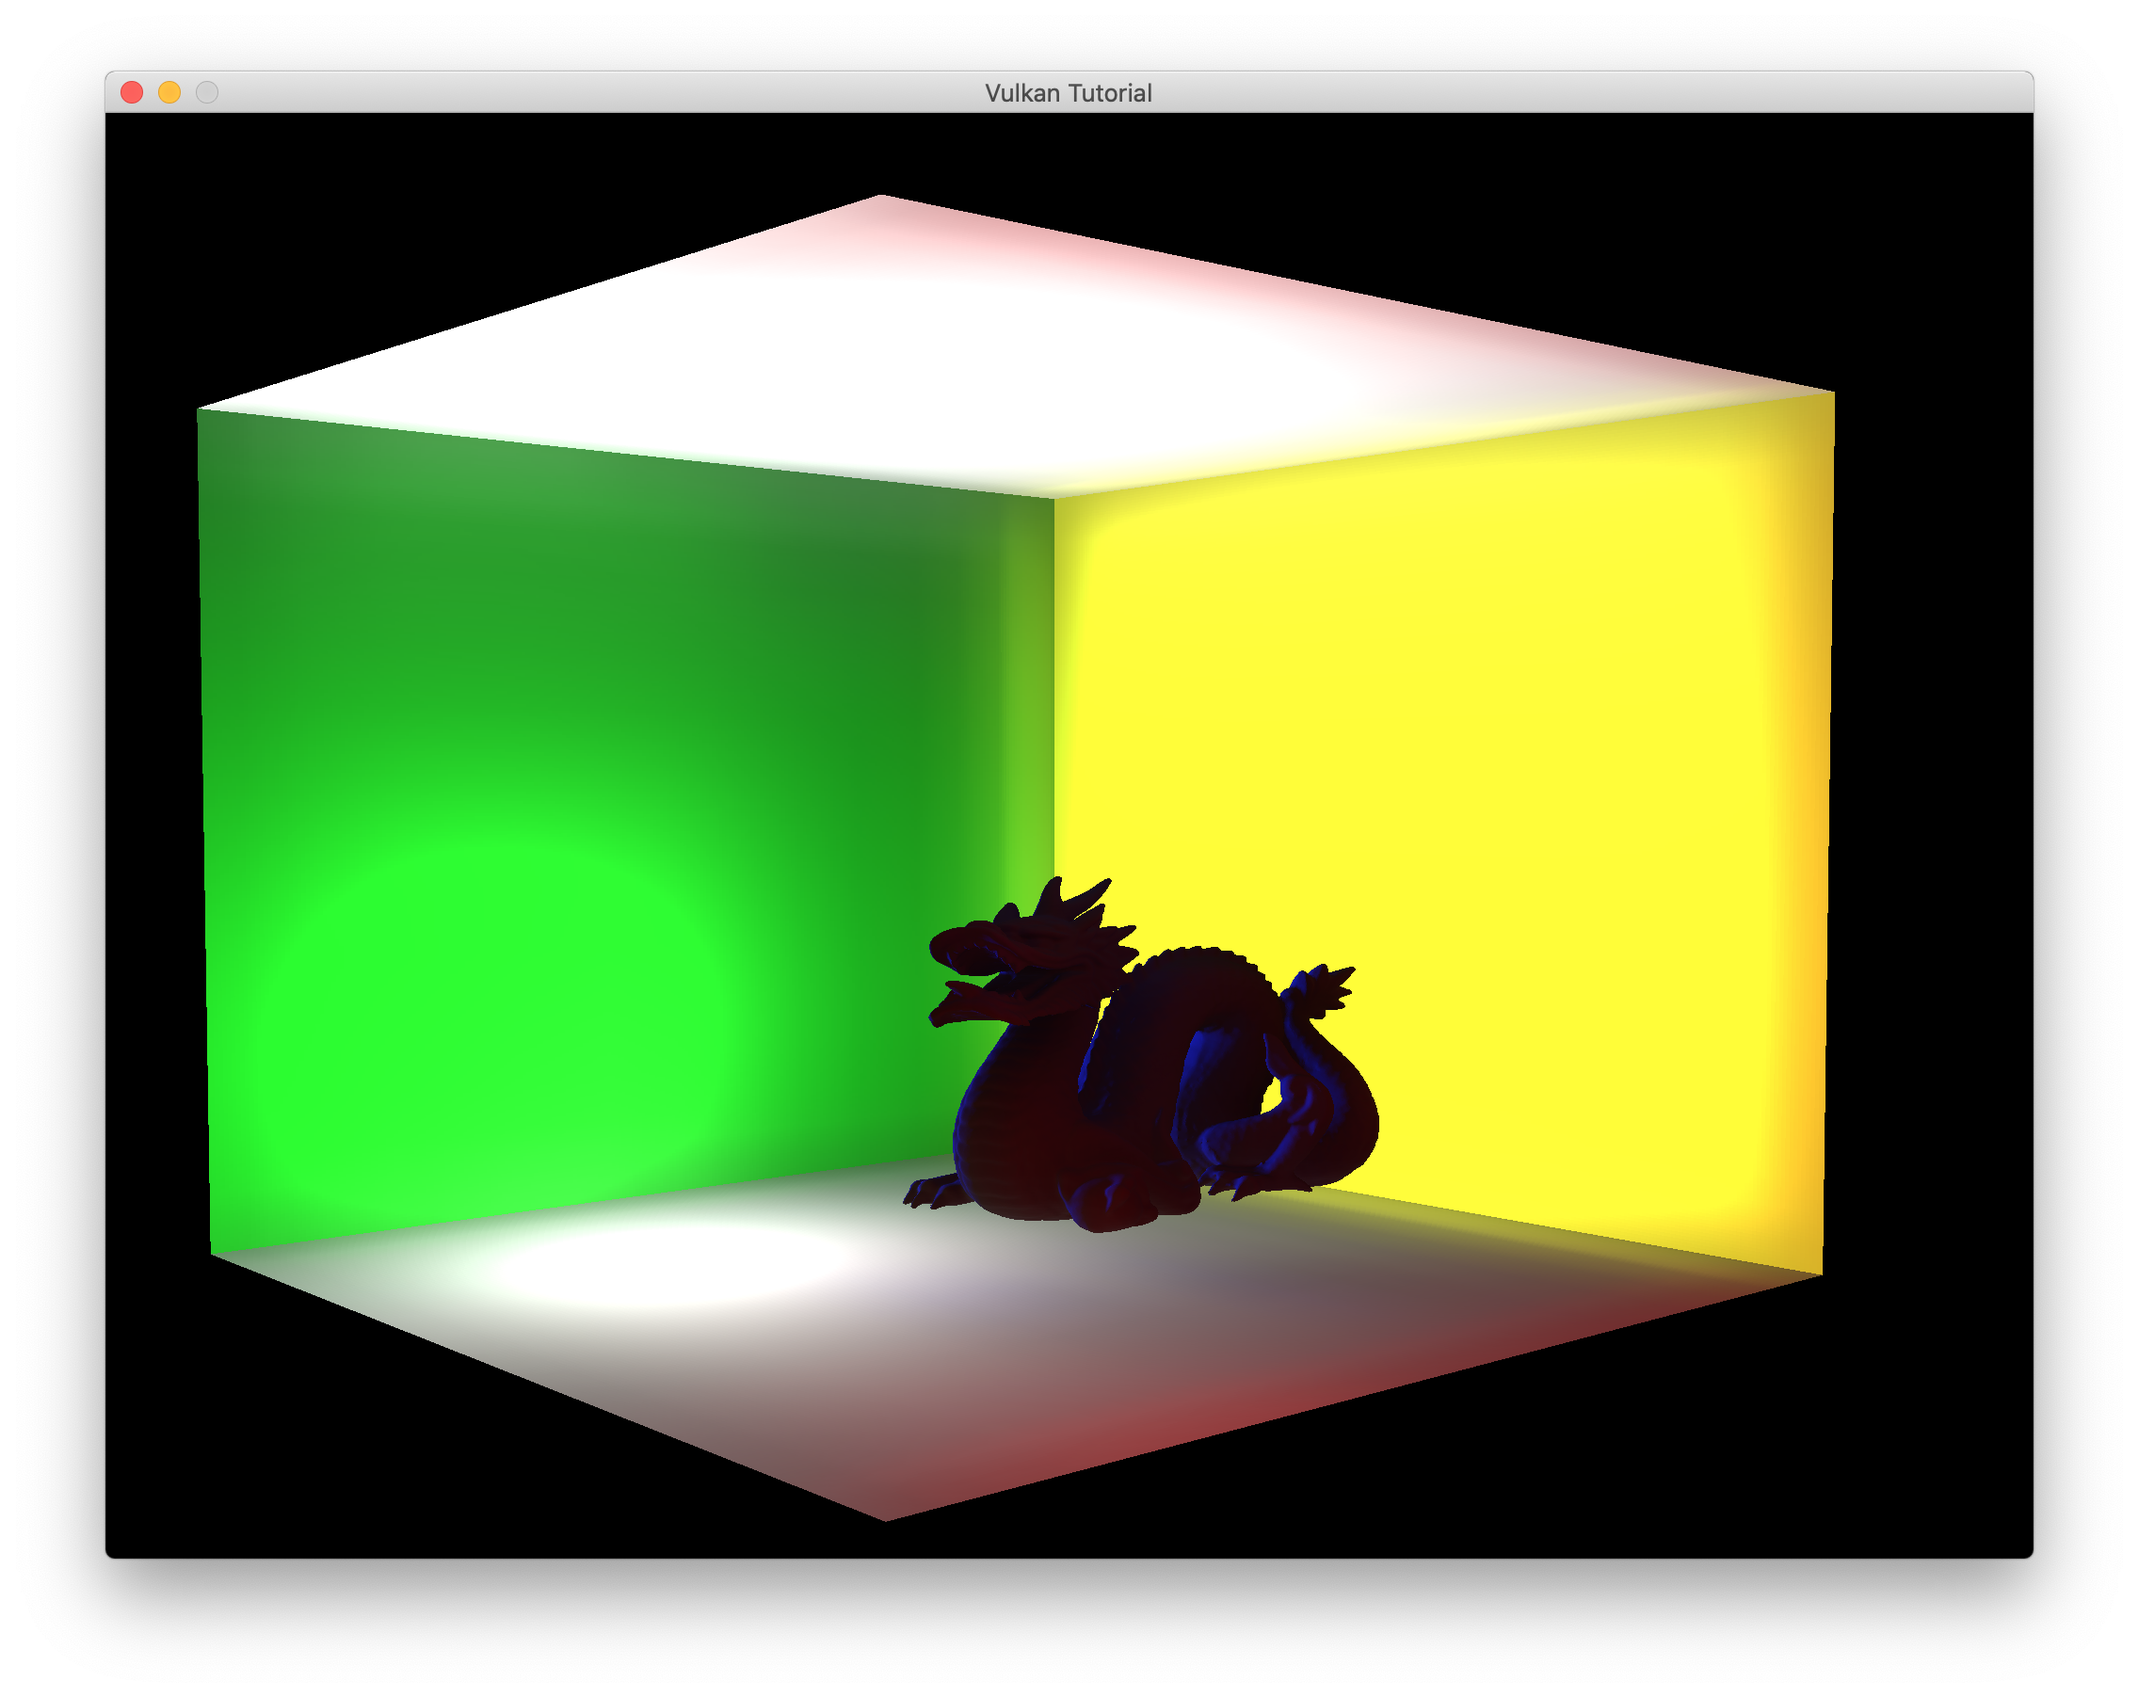
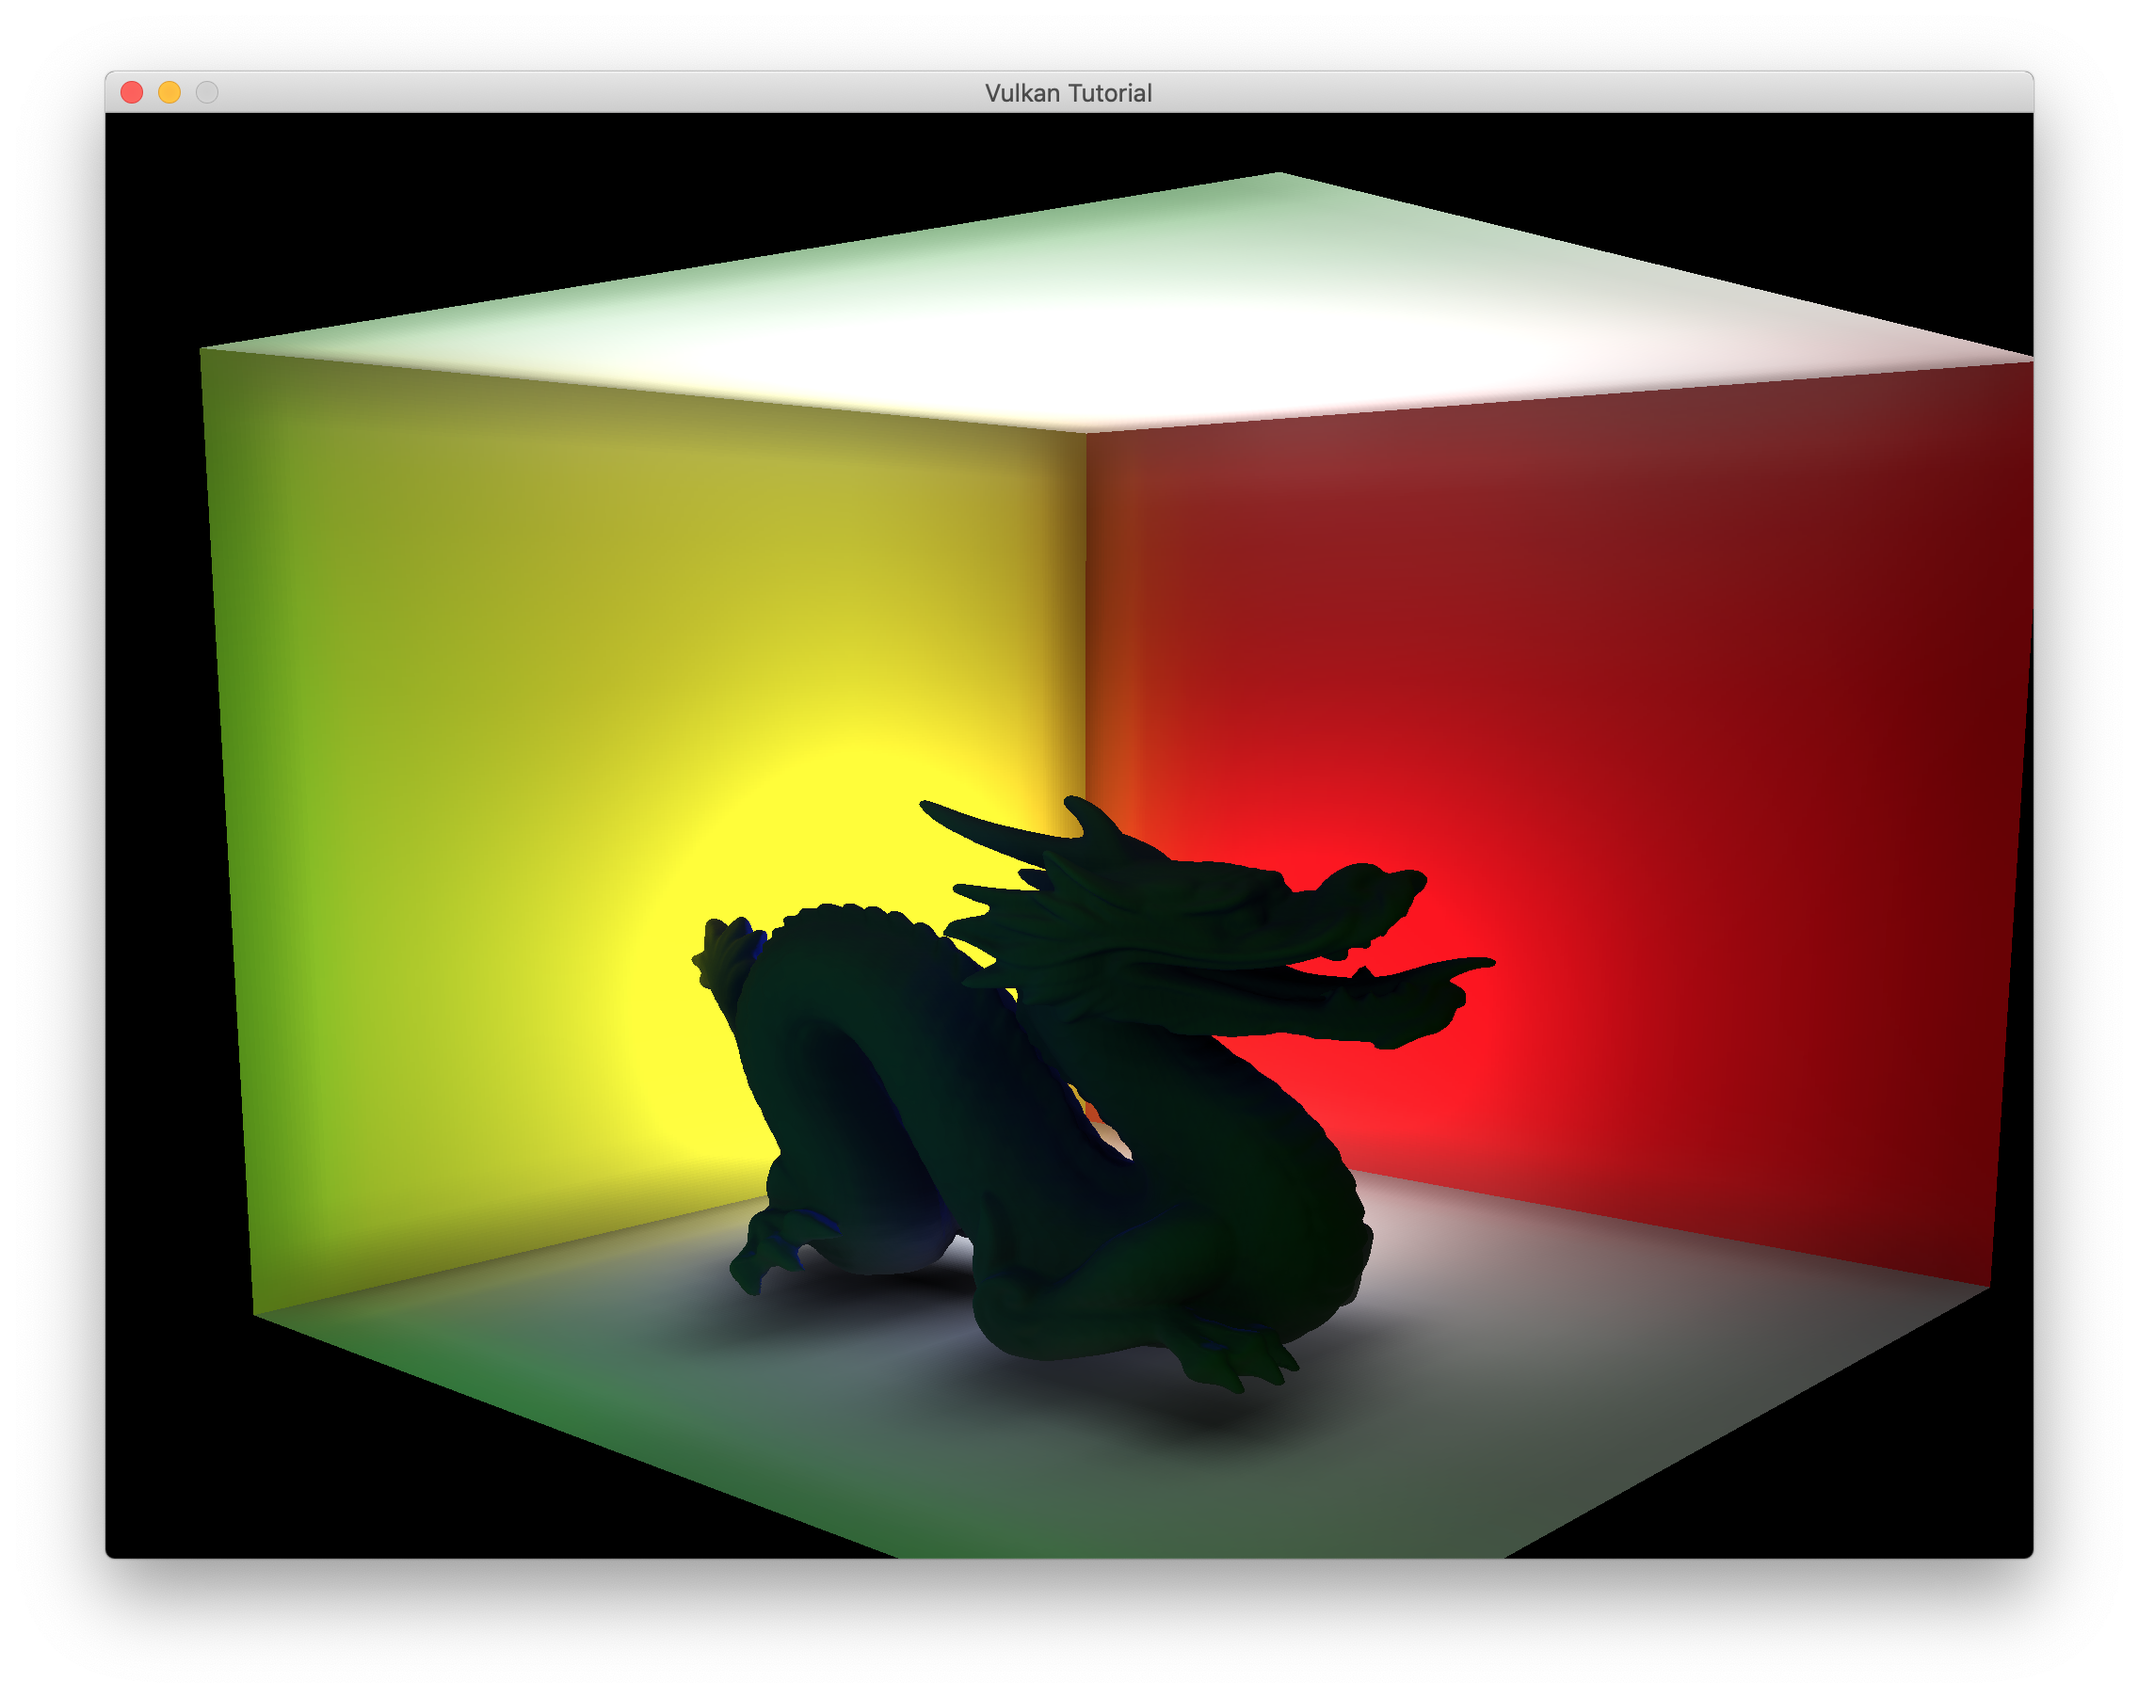
More screen shots

diff --git a/vulkan-gui-test/main.mm b/vulkan-gui-test/main.mm
@@ -325,7 +325,7 @@ int main()
     cube.create();
     
     buddha.transform.position = glm::vec3(0.25f, -.5f, .00f);
-    //buddha.transform.scale = glm::vec3(.8f, .8f, .8f);
+    buddha.transform.scale = glm::vec3(1.5f, 1.5f, 1.5f);
     buddha.transform.update_transform_matrix();
     
     cornell_box.transform.position = glm::vec3(0.0f, 0.00f, 0.0f);
